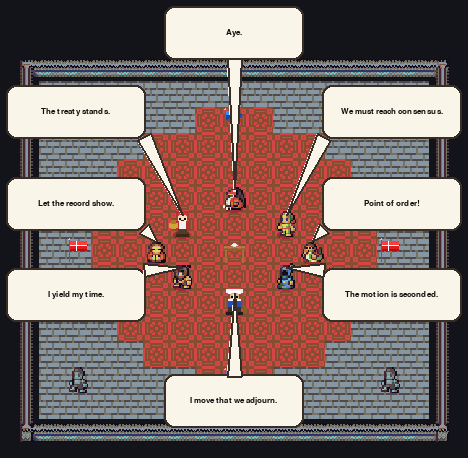
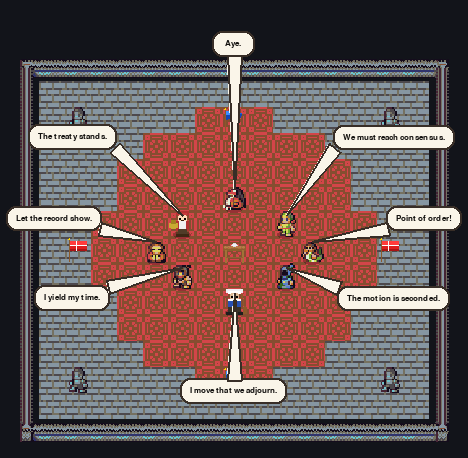
Size speech bubbles dynamically to their text
Drop the fixed minimum bubble width so each bubble hugs its message: short
lines get small bubbles, long ones wrap at a cap that tightens as more agents
speak at once, keeping crowded scenes legible.

diff --git a/src/word_play/presets/renderers/pygame_renderer/draw.py b/src/word_play/presets/renderers/pygame_renderer/draw.py
@@ -1219,10 +1219,9 @@ def draw_speech_bubbles(
         anchor_x = entity_rect.centerx
         anchor_y = entity_rect.top + max(4, min(renderer.tile_size // 6, entity_rect.height // 3))
 
-        bubble_width = max(int(renderer.tile_size * 2.55), 140)
-        bubble_height = max(int(renderer.tile_size * 1.18), 54)
-        bubble_width = max(int(bubble_width * scale), int(140 * scale))
-        bubble_height = max(int(bubble_height * scale), int(54 * scale))
+        world_width = renderer.effect_surface.get_width()
+        world_height = renderer.effect_surface.get_height()
+
         pad_left = max(int(10 * scale), int(renderer.tile_size * 0.18 * scale))
         pad_right = max(int(10 * scale), int(renderer.tile_size * 0.18 * scale))
         pad_top = max(int(8 * scale), int(renderer.tile_size * 0.14 * scale))
@@ -1230,25 +1229,30 @@ def draw_speech_bubbles(
         tail_width = max(int(14 * scale), int(renderer.tile_size * 0.5 * scale))
         tail_height = max(int(10 * scale), int(renderer.tile_size * 0.26 * scale))
         radius = max(int(10 * scale), int(renderer.tile_size * 0.24 * scale))
-        text_max_width = bubble_width - pad_left - pad_right
+
+        # Dynamic sizing: the bubble hugs its text. Long messages wrap at a cap
+        # that tightens as more agents speak at once (so crowded scenes stay
+        # readable); short messages get correspondingly small bubbles.
+        crowd_factor = 1.0 if concurrent <= 2 else max(0.55, 1.0 - (concurrent - 2) * 0.06)
+        max_content_width = max(
+            int(renderer.tile_size * 2.0 * scale),
+            int(min(world_width * 0.5, renderer.tile_size * 7.0) * scale * crowd_factor),
+        )
         speech_font, lines = fit_wrapped_text_lines(
             list(renderer.speech_fonts[:-1]) if len(renderer.speech_fonts) > 1 else renderer.speech_fonts,
             text,
-            max_width=text_max_width,
+            max_width=max_content_width,
             max_lines=3,
         )
         text_surfaces = [speech_font.render(line, True, (18, 16, 14)) for line in lines]
         text_width = max(surface.get_width() for surface in text_surfaces)
         line_gap = max(1, int(renderer.tile_size * 0.02))
         text_height = sum(surface.get_height() for surface in text_surfaces) + max(0, len(text_surfaces) - 1) * line_gap
-        bubble_width = max(bubble_width, text_width + pad_left + pad_right)
-        bubble_height = max(
-            bubble_height,
-            text_height + pad_top + pad_bottom,
-            int(renderer.tile_size * (0.78 + 0.28 * len(lines))),
-        )
-        world_width = renderer.effect_surface.get_width()
-        world_height = renderer.effect_surface.get_height()
+
+        min_content_width = max(tail_width + 6, int(renderer.tile_size * 0.9 * scale))
+        content_w = max(min_content_width, min(text_width, max_content_width))
+        bubble_width = content_w + pad_left + pad_right
+        bubble_height = max(int(renderer.tile_size * 0.66 * scale), text_height + pad_top + pad_bottom)
 
         # Default: a bubble floats just above its speaker's head (single speaker).
         baseline_cx = float(anchor_x)